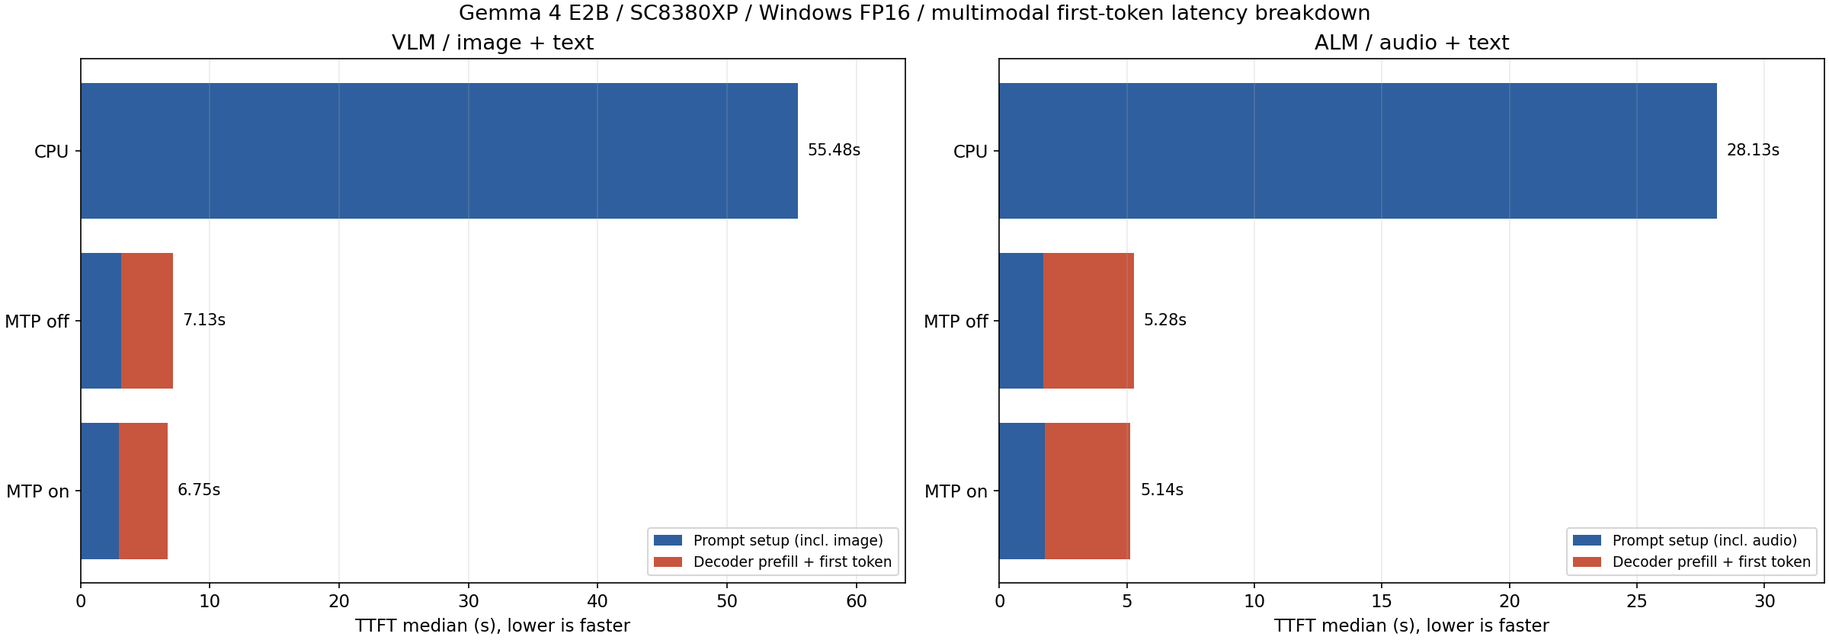
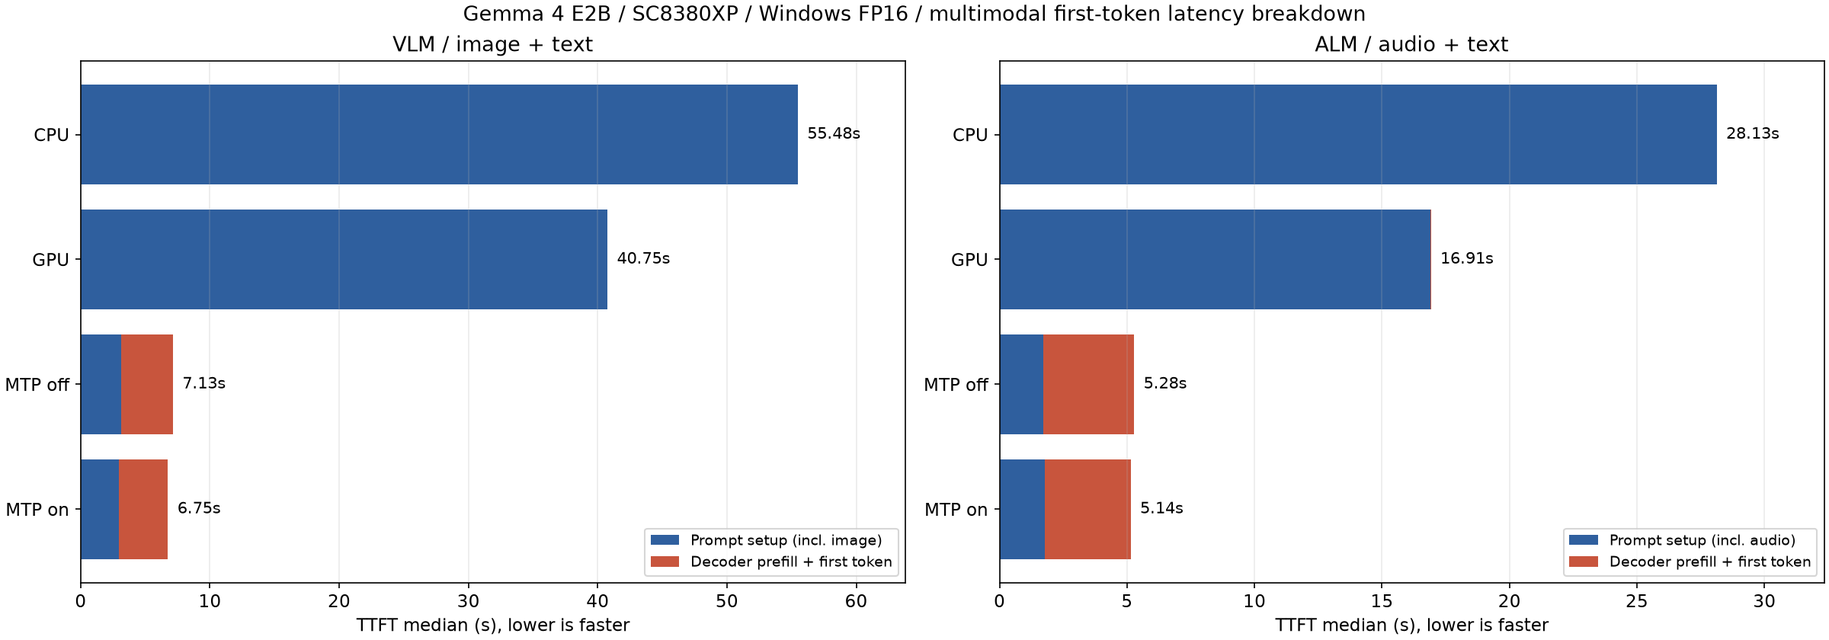
Add Windows OpenCL GPU results to MTP benchmark

diff --git a/en/llm/mtp-bench.html b/en/llm/mtp-bench.html
@@ -264,28 +264,28 @@ j=d.createElement(s),dl=l!='dataLayer'?'&l='+l:'';j.async=true;j.src=
       <li>Without MTP: the v1.5.1 MTP-capable main model without the assistant (AR-256 / AR-1)</li>
       <li>With MTP: the v1.5.1 MTP-capable main model + assistant (AR-256 / AR-4)</li>
     </ul>
-    <p>Each configuration was measured once, with a 60-second wait before each trial. The device was on AC power with the Balanced power plan, used 4 performance cores as workers, and had background apps running. CPU values are earlier measurements on the same device running the Q4_0 GGUF via the standard llama.cpp path (OpenMP disabled, 4 performance cores as workers, without MTP). The QCS6490 MTP models have only been confirmed by an offline build, and performance has not been evaluated on a real device.</p>
+    <p>Each configuration was measured once, with a 60-second wait before each trial. The device was on AC power with the Balanced power plan, used 4 performance cores as workers, and had background apps running. CPU values are earlier measurements on the same device running the Q4_0 GGUF via the standard llama.cpp path (OpenMP disabled, 4 performance cores as workers, without MTP). GPU values are from running the same Q4_0 GGUF on the Adreno X1-45 via the llama.cpp OpenCL backend (without MTP). They were measured on 2026-10-11 with a runtime that improves GPU performance, and are faster than the GPU values in the <a href="qnn-bench.html#windows">QNN Benchmark</a>. The QCS6490 MTP models have only been confirmed by an offline build, and performance has not been evaluated on a real device.</p>
 
     <h3>Decode throughput</h3>
     <p>Throughput for an 81-token input and 1,000 generated tokens.</p>
     <div class="table-wrap">
     <table class="version-table">
-      <tr><th>Model</th><th>CPU</th><th>Non-MTP (v1.5.0)</th><th>Without MTP</th><th>With MTP</th><th>MTP speedup (vs. non-MTP)</th><th>Acceptance</th></tr>
-      <tr><td>E2B / FP16</td><td class="num">32.505 tokens/s</td><td class="num">7.581 tokens/s</td><td class="num">7.681 tokens/s</td><td class="num">11.361 tokens/s</td><td class="num"><strong>1.50x faster</strong></td><td class="num">35.2%</td></tr>
-      <tr><td>E4B / FP16</td><td class="num">15.230 tokens/s</td><td class="num">4.477 tokens/s</td><td class="num">4.403 tokens/s</td><td class="num">7.614 tokens/s</td><td class="num"><strong>1.70x faster</strong></td><td class="num">39.4%</td></tr>
+      <tr><th>Model</th><th>CPU</th><th>GPU</th><th>Non-MTP (v1.5.0)</th><th>Without MTP</th><th>With MTP</th><th>MTP speedup (vs. non-MTP)</th><th>Acceptance</th></tr>
+      <tr><td>E2B / FP16</td><td class="num">32.505 tokens/s</td><td class="num">16.996 tokens/s</td><td class="num">7.581 tokens/s</td><td class="num">7.681 tokens/s</td><td class="num">11.361 tokens/s</td><td class="num"><strong>1.50x faster</strong></td><td class="num">35.2%</td></tr>
+      <tr><td>E4B / FP16</td><td class="num">15.230 tokens/s</td><td class="num">8.399 tokens/s</td><td class="num">4.477 tokens/s</td><td class="num">4.403 tokens/s</td><td class="num">7.614 tokens/s</td><td class="num"><strong>1.70x faster</strong></td><td class="num">39.4%</td></tr>
     </table>
     </div>
     <p>Without MTP, the speed is almost the same as the conventional model, so the speedup comes from the assistant and AR-4 verification. Unlike on Android, E4B also improved substantially, by 1.70x.</p>
     <div class="note">
-      <strong>Comparison with the CPU:</strong> Snapdragon X Plus has a high-performance CPU. Compared with the CPU decode in the <a href="qnn-bench.html#windows">QNN Benchmark</a> (E2B 32.505 tokens/s, E4B 15.230 tokens/s), the NPU with MTP is 0.35x for E2B and 0.50x for E4B. On Windows on Arm PCs, the main benefits of the NPU are faster prefill and reduced CPU load.
+      <strong>Comparison with the CPU and GPU:</strong> Snapdragon X Plus has a high-performance CPU. Even with MTP, NPU text generation decode is 0.35x (E2B) / 0.50x (E4B) the CPU and 0.67x (E2B) / 0.91x (E4B) the GPU. On Windows on Arm PCs, the main benefits of the NPU are faster prefill and reduced CPU load.
     </div>
 
     <figure class="bench-figure">
-      <img src="../../llm/benchmark/mtp_text_tps_sc8380xp.png" alt="Snapdragon X Plus E2B per-token text generation throughput over 1000 generated tokens (CPU / without MTP / with MTP)" loading="lazy">
+      <img src="../../llm/benchmark/mtp_text_tps_sc8380xp.png" alt="Snapdragon X Plus E2B per-token text generation throughput over 1000 generated tokens (CPU / GPU / without MTP / with MTP)" loading="lazy">
       <figcaption>Per-token decode throughput on SC8380XP (E2B / FP16) over 1000 generated tokens</figcaption>
     </figure>
     <figure class="bench-figure">
-      <img src="../../llm/benchmark/mtp_text_tps_e4b_sc8380xp.png" alt="Snapdragon X Plus E4B per-token text generation throughput over 1000 generated tokens (CPU / without MTP / with MTP)" loading="lazy">
+      <img src="../../llm/benchmark/mtp_text_tps_e4b_sc8380xp.png" alt="Snapdragon X Plus E4B per-token text generation throughput over 1000 generated tokens (CPU / GPU / without MTP / with MTP)" loading="lazy">
       <figcaption>Per-token decode throughput on SC8380XP (E4B / FP16) over 1000 generated tokens</figcaption>
     </figure>
 
@@ -295,65 +295,71 @@ j=d.createElement(s),dl=l!='dataLayer'?'&l='+l:'';j.async=true;j.src=
     <table class="version-table">
       <tr><th>Model / configuration</th><th>64</th><th>128</th><th>256</th><th>512</th><th>1024</th><th>2048</th></tr>
       <tr><td>E2B CPU</td><td class="num">249.314</td><td class="num">205.403</td><td class="num">214.986</td><td class="num">194.638</td><td class="num">176.262</td><td class="num">155.627</td></tr>
+      <tr><td>E2B GPU</td><td class="num">190.718</td><td class="num">208.584</td><td class="num">220.448</td><td class="num">205.558</td><td class="num">181.273</td><td class="num">151.935</td></tr>
       <tr><td>E2B non-MTP (v1.5.0)</td><td class="num">101.982</td><td class="num">225.254</td><td class="num">424.934</td><td class="num">420.052</td><td class="num">407.490</td><td class="num">420.639</td></tr>
       <tr><td>E2B without MTP</td><td class="num">113.151</td><td class="num">226.424</td><td class="num">448.660</td><td class="num">440.496</td><td class="num">426.759</td><td class="num">418.778</td></tr>
       <tr><td>E2B with MTP</td><td class="num">111.217</td><td class="num">223.184</td><td class="num">431.739</td><td class="num">419.928</td><td class="num">431.036</td><td class="num">430.899</td></tr>
       <tr><td>E4B CPU</td><td class="num">83.793</td><td class="num">98.738</td><td class="num">115.542</td><td class="num">106.402</td><td class="num">97.419</td><td class="num">80.109</td></tr>
+      <tr><td>E4B GPU</td><td class="num">100.750</td><td class="num">114.198</td><td class="num">122.105</td><td class="num">118.442</td><td class="num">108.468</td><td class="num">95.985</td></tr>
       <tr><td>E4B non-MTP (v1.5.0)</td><td class="num">62.413</td><td class="num">124.979</td><td class="num">245.360</td><td class="num">257.128</td><td class="num">253.727</td><td class="num">247.997</td></tr>
       <tr><td>E4B without MTP</td><td class="num">62.896</td><td class="num">114.516</td><td class="num">227.997</td><td class="num">253.767</td><td class="num">249.950</td><td class="num">243.701</td></tr>
       <tr><td>E4B with MTP</td><td class="num">63.008</td><td class="num">114.917</td><td class="num">229.531</td><td class="num">254.648</td><td class="num">248.715</td><td class="num">248.864</td></tr>
     </table>
     </div>
-    <p>Prefill is equivalent across all three configurations, so using the MTP-capable model does not reduce prefill performance. For a 2,048-token input, the NPU (with MTP) is about 2.77x faster than the CPU for E2B and about 3.11x for E4B.</p>
+    <p>Prefill is equivalent across all three configurations, so using the MTP-capable model does not reduce prefill performance. For a 2,048-token input, the NPU (with MTP) is about 2.77x faster than the CPU for E2B and about 3.11x for E4B, and about 2.84x faster than the GPU for E2B and about 2.59x for E4B.</p>
 
     <figure class="bench-figure">
-      <img src="../../llm/benchmark/mtp_pps_sc8380xp.png" alt="Snapdragon X Plus E2B prefill throughput (CPU / without MTP / with MTP)" loading="lazy">
+      <img src="../../llm/benchmark/mtp_pps_sc8380xp.png" alt="Snapdragon X Plus E2B prefill throughput (CPU / GPU / without MTP / with MTP)" loading="lazy">
       <figcaption>Prefill throughput on SC8380XP (E2B / FP16)</figcaption>
     </figure>
     <figure class="bench-figure">
-      <img src="../../llm/benchmark/mtp_pps_e4b_sc8380xp.png" alt="Snapdragon X Plus E4B prefill throughput (CPU / without MTP / with MTP)" loading="lazy">
+      <img src="../../llm/benchmark/mtp_pps_e4b_sc8380xp.png" alt="Snapdragon X Plus E4B prefill throughput (CPU / GPU / without MTP / with MTP)" loading="lazy">
       <figcaption>Prefill throughput on SC8380XP (E4B / FP16)</figcaption>
     </figure>
 
     <h3>VLM (image input) and audio input latency</h3>
-    <p>Image input uses one 768x768 image with 100 output tokens, and audio input transcribes one English recording with 33 output tokens; each is a single measurement. TTFT is the sum of prompt setup including the encoder and the first generate call, and does not include model opening. On the CPU path, the image and audio encoders also run on the CPU.</p>
+    <p>Image input uses one 768x768 image with 100 output tokens, and audio input transcribes one English recording with 33 output tokens; each is a single measurement. TTFT is the sum of prompt setup including the encoder and the first generate call, and does not include model opening. On the CPU and GPU paths, the image and audio encoders run on the CPU.</p>
     <div class="table-wrap">
     <table class="version-table">
       <tr><th>Device / model</th><th>Input</th><th>Path</th><th>TTFT</th><th>Decode</th><th>Acceptance</th></tr>
       <tr><td>SC8380XP E2B</td><td>Image</td><td>CPU</td><td class="num">55.48 s</td><td class="num">37.546 tokens/s</td><td class="num">—</td></tr>
+      <tr><td>SC8380XP E2B</td><td>Image</td><td>GPU</td><td class="num">40.75 s</td><td class="num">17.380 tokens/s</td><td class="num">—</td></tr>
       <tr><td>SC8380XP E2B</td><td>Image</td><td>Non-MTP (v1.5.0)</td><td class="num">7.31 s</td><td class="num">7.617 tokens/s</td><td class="num">—</td></tr>
       <tr><td>SC8380XP E2B</td><td>Image</td><td>Without MTP</td><td class="num">7.13 s</td><td class="num">7.608 tokens/s</td><td class="num">—</td></tr>
       <tr><td>SC8380XP E2B</td><td>Image</td><td>With MTP</td><td class="num">6.75 s</td><td class="num"><strong>10.689 tokens/s</strong></td><td class="num">32.0%</td></tr>
       <tr><td>SC8380XP E2B</td><td>Audio</td><td>CPU</td><td class="num">28.13 s</td><td class="num">37.924 tokens/s</td><td class="num">—</td></tr>
+      <tr><td>SC8380XP E2B</td><td>Audio</td><td>GPU</td><td class="num">16.92 s</td><td class="num">17.247 tokens/s</td><td class="num">—</td></tr>
       <tr><td>SC8380XP E2B</td><td>Audio</td><td>Non-MTP (v1.5.0)</td><td class="num">5.40 s</td><td class="num">7.219 tokens/s</td><td class="num">—</td></tr>
       <tr><td>SC8380XP E2B</td><td>Audio</td><td>Without MTP</td><td class="num">5.28 s</td><td class="num">7.513 tokens/s</td><td class="num">—</td></tr>
       <tr><td>SC8380XP E2B</td><td>Audio</td><td>With MTP</td><td class="num">5.14 s</td><td class="num"><strong>17.777 tokens/s</strong></td><td class="num">92.6%</td></tr>
       <tr><td>SC8380XP E4B</td><td>Image</td><td>CPU</td><td class="num">54.09 s</td><td class="num">20.161 tokens/s</td><td class="num">—</td></tr>
+      <tr><td>SC8380XP E4B</td><td>Image</td><td>GPU</td><td class="num">42.44 s</td><td class="num">9.323 tokens/s</td><td class="num">—</td></tr>
       <tr><td>SC8380XP E4B</td><td>Image</td><td>Non-MTP (v1.5.0)</td><td class="num">10.94 s</td><td class="num">4.426 tokens/s</td><td class="num">—</td></tr>
       <tr><td>SC8380XP E4B</td><td>Image</td><td>Without MTP</td><td class="num">10.81 s</td><td class="num">4.445 tokens/s</td><td class="num">—</td></tr>
       <tr><td>SC8380XP E4B</td><td>Image</td><td>With MTP</td><td class="num">9.30 s</td><td class="num"><strong>7.918 tokens/s</strong></td><td class="num">43.2%</td></tr>
       <tr><td>SC8380XP E4B</td><td>Audio</td><td>CPU</td><td class="num">27.67 s</td><td class="num">19.444 tokens/s</td><td class="num">—</td></tr>
+      <tr><td>SC8380XP E4B</td><td>Audio</td><td>GPU</td><td class="num">19.39 s</td><td class="num">9.366 tokens/s</td><td class="num">—</td></tr>
       <tr><td>SC8380XP E4B</td><td>Audio</td><td>Non-MTP (v1.5.0)</td><td class="num">8.13 s</td><td class="num">4.331 tokens/s</td><td class="num">—</td></tr>
       <tr><td>SC8380XP E4B</td><td>Audio</td><td>Without MTP</td><td class="num">7.68 s</td><td class="num">4.478 tokens/s</td><td class="num">—</td></tr>
       <tr><td>SC8380XP E4B</td><td>Audio</td><td>With MTP</td><td class="num">7.38 s</td><td class="num"><strong>12.288 tokens/s</strong></td><td class="num">92.6%</td></tr>
     </table>
     </div>
-    <p>Compared with non-MTP, image-input decode is 1.40x faster for E2B and 1.79x for E4B, and audio input is 2.46x for E2B and 2.84x for E4B. TTFT does not change much across the three configurations and is 1/3.7 to 1/8.2 of the CPU.</p>
+    <p>Compared with non-MTP, image-input decode is 1.40x faster for E2B and 1.79x for E4B, and audio input is 2.46x for E2B and 2.84x for E4B. TTFT does not change much across the three configurations and is 1/3.7 to 1/8.2 of the CPU and 1/2.6 to 1/6.0 of the GPU. For audio input decode, the NPU with MTP outperforms the GPU (1.03x for E2B, 1.31x for E4B).</p>
 
     <figure class="bench-figure">
-      <img src="../../llm/benchmark/mtp_media_ttft_sc8380xp.png" alt="Snapdragon X Plus E2B VLM / audio input TTFT breakdown (CPU / without MTP / with MTP)" loading="lazy">
+      <img src="../../llm/benchmark/mtp_media_ttft_sc8380xp.png" alt="Snapdragon X Plus E2B VLM / audio input TTFT breakdown (CPU / GPU / without MTP / with MTP)" loading="lazy">
       <figcaption>VLM / audio input TTFT breakdown on SC8380XP (E2B / FP16): prompt setup including the encoder, and decoder prefill + first token</figcaption>
     </figure>
     <figure class="bench-figure">
-      <img src="../../llm/benchmark/mtp_media_ttft_e4b_sc8380xp.png" alt="Snapdragon X Plus E4B VLM / audio input TTFT breakdown (CPU / without MTP / with MTP)" loading="lazy">
+      <img src="../../llm/benchmark/mtp_media_ttft_e4b_sc8380xp.png" alt="Snapdragon X Plus E4B VLM / audio input TTFT breakdown (CPU / GPU / without MTP / with MTP)" loading="lazy">
       <figcaption>VLM / audio input TTFT breakdown on SC8380XP (E4B / FP16): prompt setup including the encoder, and decoder prefill + first token</figcaption>
     </figure>
     <figure class="bench-figure">
-      <img src="../../llm/benchmark/mtp_media_tps_sc8380xp.png" alt="Snapdragon X Plus E2B VLM / audio input decode throughput (CPU / without MTP / with MTP)" loading="lazy">
+      <img src="../../llm/benchmark/mtp_media_tps_sc8380xp.png" alt="Snapdragon X Plus E2B VLM / audio input decode throughput (CPU / GPU / without MTP / with MTP)" loading="lazy">
       <figcaption>VLM / audio input decode throughput on SC8380XP (E2B / FP16)</figcaption>
     </figure>
     <figure class="bench-figure">
-      <img src="../../llm/benchmark/mtp_media_tps_e4b_sc8380xp.png" alt="Snapdragon X Plus E4B VLM / audio input decode throughput (CPU / without MTP / with MTP)" loading="lazy">
+      <img src="../../llm/benchmark/mtp_media_tps_e4b_sc8380xp.png" alt="Snapdragon X Plus E4B VLM / audio input decode throughput (CPU / GPU / without MTP / with MTP)" loading="lazy">
       <figcaption>VLM / audio input decode throughput on SC8380XP (E4B / FP16)</figcaption>
     </figure>
 

diff --git a/llm/mtp-bench.html b/llm/mtp-bench.html
@@ -264,20 +264,20 @@ j=d.createElement(s),dl=l!='dataLayer'?'&l='+l:'';j.async=true;j.src=
       <li>MTP なし：v1.5.1 の MTP 対応本体を Assistant なしで実行（AR-256 / AR-1）</li>
       <li>MTP あり：v1.5.1 の MTP 対応本体 + Assistant（AR-256 / AR-4）</li>
     </ul>
-    <p>各構成 1 回の測定で、各試行の前に 60 秒待機しています。AC 接続、バランス電源プラン、4 つの高性能コアをワーカーとして使用し、背景アプリが動作している状態での測定です。CPU は同じ端末上で Q4_0 GGUF を標準の llama.cpp 経路（OpenMP 無効、4 つの高性能コアをワーカーとして使用、MTP なし）で実行した過去の測定値です。QCS6490 向けの MTP モデルはオフラインでのビルド確認のみで、実機での性能評価は未実施です。</p>
+    <p>各構成 1 回の測定で、各試行の前に 60 秒待機しています。AC 接続、バランス電源プラン、4 つの高性能コアをワーカーとして使用し、背景アプリが動作している状態での測定です。CPU は同じ端末上で Q4_0 GGUF を標準の llama.cpp 経路（OpenMP 無効、4 つの高性能コアをワーカーとして使用、MTP なし）で実行した過去の測定値です。GPU は Adreno X1-45 で、同じ Q4_0 GGUF を llama.cpp の OpenCL バックエンド（MTP なし）で実行した値です。GPU 実行時の性能を改善したランタイムで 2026-10-11 に測定しており、<a href="qnn-bench.html#windows">QNN ベンチマーク</a>の GPU の値より高速です。QCS6490 向けの MTP モデルはオフラインでのビルド確認のみで、実機での性能評価は未実施です。</p>
 
     <h3>Decode スループット</h3>
     <p>81 トークン入力・1,000 トークン生成時のスループットです。</p>
     <div class="table-wrap">
     <table class="version-table">
-      <tr><th>モデル</th><th>CPU</th><th>非 MTP（v1.5.0）</th><th>MTP なし</th><th>MTP あり</th><th>MTP の効果（非 MTP 比）</th><th>受理率</th></tr>
-      <tr><td>E2B / FP16</td><td class="num">32.505 tokens/s</td><td class="num">7.581 tokens/s</td><td class="num">7.681 tokens/s</td><td class="num">11.361 tokens/s</td><td class="num"><strong>1.50 倍高速</strong></td><td class="num">35.2%</td></tr>
-      <tr><td>E4B / FP16</td><td class="num">15.230 tokens/s</td><td class="num">4.477 tokens/s</td><td class="num">4.403 tokens/s</td><td class="num">7.614 tokens/s</td><td class="num"><strong>1.70 倍高速</strong></td><td class="num">39.4%</td></tr>
+      <tr><th>モデル</th><th>CPU</th><th>GPU</th><th>非 MTP（v1.5.0）</th><th>MTP なし</th><th>MTP あり</th><th>MTP の効果（非 MTP 比）</th><th>受理率</th></tr>
+      <tr><td>E2B / FP16</td><td class="num">32.505 tokens/s</td><td class="num">16.996 tokens/s</td><td class="num">7.581 tokens/s</td><td class="num">7.681 tokens/s</td><td class="num">11.361 tokens/s</td><td class="num"><strong>1.50 倍高速</strong></td><td class="num">35.2%</td></tr>
+      <tr><td>E4B / FP16</td><td class="num">15.230 tokens/s</td><td class="num">8.399 tokens/s</td><td class="num">4.477 tokens/s</td><td class="num">4.403 tokens/s</td><td class="num">7.614 tokens/s</td><td class="num"><strong>1.70 倍高速</strong></td><td class="num">39.4%</td></tr>
     </table>
     </div>
     <p>MTP なしは従来モデルとほぼ同じ速度で、速度向上は Assistant と AR-4 による検証によるものです。Android と異なり、E4B でも 1.70 倍と大きく向上しました。</p>
     <div class="note">
-      <strong>CPU との比較:</strong> Snapdragon X Plus は CPU の性能が高く、<a href="qnn-bench.html#windows">QNN ベンチマーク</a>の CPU の Decode（E2B 32.505 tokens/s、E4B 15.230 tokens/s）に対し、MTP ありの NPU は E2B で 0.35 倍、E4B で 0.50 倍です。Windows on Arm の PC では、Prefill の高速化と CPU 負荷の削減が NPU の主な利点です。
+      <strong>CPU・GPU との比較:</strong> Snapdragon X Plus は CPU の性能が高く、テキスト生成の Decode は MTP ありの NPU でも CPU の 0.35 倍（E2B）/ 0.50 倍（E4B）、GPU の 0.67 倍（E2B）/ 0.91 倍（E4B）です。Windows on Arm の PC では、Prefill の高速化と CPU 負荷の削減が NPU の主な利点です。
     </div>
 
     <figure class="bench-figure">
@@ -295,65 +295,71 @@ j=d.createElement(s),dl=l!='dataLayer'?'&l='+l:'';j.async=true;j.src=
     <table class="version-table">
       <tr><th>モデル・構成</th><th>64</th><th>128</th><th>256</th><th>512</th><th>1024</th><th>2048</th></tr>
       <tr><td>E2B CPU</td><td class="num">249.314</td><td class="num">205.403</td><td class="num">214.986</td><td class="num">194.638</td><td class="num">176.262</td><td class="num">155.627</td></tr>
+      <tr><td>E2B GPU</td><td class="num">190.718</td><td class="num">208.584</td><td class="num">220.448</td><td class="num">205.558</td><td class="num">181.273</td><td class="num">151.935</td></tr>
       <tr><td>E2B 非 MTP（v1.5.0）</td><td class="num">101.982</td><td class="num">225.254</td><td class="num">424.934</td><td class="num">420.052</td><td class="num">407.490</td><td class="num">420.639</td></tr>
       <tr><td>E2B MTP なし</td><td class="num">113.151</td><td class="num">226.424</td><td class="num">448.660</td><td class="num">440.496</td><td class="num">426.759</td><td class="num">418.778</td></tr>
       <tr><td>E2B MTP あり</td><td class="num">111.217</td><td class="num">223.184</td><td class="num">431.739</td><td class="num">419.928</td><td class="num">431.036</td><td class="num">430.899</td></tr>
       <tr><td>E4B CPU</td><td class="num">83.793</td><td class="num">98.738</td><td class="num">115.542</td><td class="num">106.402</td><td class="num">97.419</td><td class="num">80.109</td></tr>
+      <tr><td>E4B GPU</td><td class="num">100.750</td><td class="num">114.198</td><td class="num">122.105</td><td class="num">118.442</td><td class="num">108.468</td><td class="num">95.985</td></tr>
       <tr><td>E4B 非 MTP（v1.5.0）</td><td class="num">62.413</td><td class="num">124.979</td><td class="num">245.360</td><td class="num">257.128</td><td class="num">253.727</td><td class="num">247.997</td></tr>
       <tr><td>E4B MTP なし</td><td class="num">62.896</td><td class="num">114.516</td><td class="num">227.997</td><td class="num">253.767</td><td class="num">249.950</td><td class="num">243.701</td></tr>
       <tr><td>E4B MTP あり</td><td class="num">63.008</td><td class="num">114.917</td><td class="num">229.531</td><td class="num">254.648</td><td class="num">248.715</td><td class="num">248.864</td></tr>
     </table>
     </div>
-    <p>Prefill は 3 構成とも同等で、MTP 対応モデルを使用しても Prefill 性能は低下しません。2,048 トークン入力では、NPU（MTP あり）は CPU より E2B で約 2.77 倍、E4B で約 3.11 倍高速です。</p>
+    <p>Prefill は 3 構成とも同等で、MTP 対応モデルを使用しても Prefill 性能は低下しません。2,048 トークン入力では、NPU（MTP あり）は CPU より E2B で約 2.77 倍、E4B で約 3.11 倍、GPU より E2B で約 2.84 倍、E4B で約 2.59 倍高速です。</p>
 
     <figure class="bench-figure">
-      <img src="benchmark/mtp_pps_sc8380xp.png" alt="Snapdragon X Plus E2B の Prefill スループット（CPU / MTP なし / MTP あり）" loading="lazy">
+      <img src="benchmark/mtp_pps_sc8380xp.png" alt="Snapdragon X Plus E2B の Prefill スループット（CPU / GPU / MTP なし / MTP あり）" loading="lazy">
       <figcaption>SC8380XP（E2B / FP16）の Prefill スループット</figcaption>
     </figure>
     <figure class="bench-figure">
-      <img src="benchmark/mtp_pps_e4b_sc8380xp.png" alt="Snapdragon X Plus E4B の Prefill スループット（CPU / MTP なし / MTP あり）" loading="lazy">
+      <img src="benchmark/mtp_pps_e4b_sc8380xp.png" alt="Snapdragon X Plus E4B の Prefill スループット（CPU / GPU / MTP なし / MTP あり）" loading="lazy">
       <figcaption>SC8380XP（E4B / FP16）の Prefill スループット</figcaption>
     </figure>
 
     <h3>VLM（画像入力）・音声入力の応答時間</h3>
-    <p>画像は 768x768 の 1 枚で 100 トークン出力、音声は英語音声 1 件の書き起こしで 33 トークン出力で、いずれも 1 回の測定値です。TTFT はエンコーダを含むプロンプト設定と最初の生成呼び出しの合計で、モデルのオープンは含みません。CPU の経路では、画像・音声エンコーダも CPU で実行しています。</p>
+    <p>画像は 768x768 の 1 枚で 100 トークン出力、音声は英語音声 1 件の書き起こしで 33 トークン出力で、いずれも 1 回の測定値です。TTFT はエンコーダを含むプロンプト設定と最初の生成呼び出しの合計で、モデルのオープンは含みません。CPU と GPU の経路では、画像・音声エンコーダは CPU で実行しています。</p>
     <div class="table-wrap">
     <table class="version-table">
       <tr><th>端末・モデル</th><th>入力</th><th>経路</th><th>TTFT</th><th>Decode</th><th>受理率</th></tr>
       <tr><td>SC8380XP E2B</td><td>画像</td><td>CPU</td><td class="num">55.48 秒</td><td class="num">37.546 tokens/s</td><td class="num">—</td></tr>
+      <tr><td>SC8380XP E2B</td><td>画像</td><td>GPU</td><td class="num">40.75 秒</td><td class="num">17.380 tokens/s</td><td class="num">—</td></tr>
       <tr><td>SC8380XP E2B</td><td>画像</td><td>非 MTP（v1.5.0）</td><td class="num">7.31 秒</td><td class="num">7.617 tokens/s</td><td class="num">—</td></tr>
       <tr><td>SC8380XP E2B</td><td>画像</td><td>MTP なし</td><td class="num">7.13 秒</td><td class="num">7.608 tokens/s</td><td class="num">—</td></tr>
       <tr><td>SC8380XP E2B</td><td>画像</td><td>MTP あり</td><td class="num">6.75 秒</td><td class="num"><strong>10.689 tokens/s</strong></td><td class="num">32.0%</td></tr>
       <tr><td>SC8380XP E2B</td><td>音声</td><td>CPU</td><td class="num">28.13 秒</td><td class="num">37.924 tokens/s</td><td class="num">—</td></tr>
+      <tr><td>SC8380XP E2B</td><td>音声</td><td>GPU</td><td class="num">16.92 秒</td><td class="num">17.247 tokens/s</td><td class="num">—</td></tr>
       <tr><td>SC8380XP E2B</td><td>音声</td><td>非 MTP（v1.5.0）</td><td class="num">5.40 秒</td><td class="num">7.219 tokens/s</td><td class="num">—</td></tr>
       <tr><td>SC8380XP E2B</td><td>音声</td><td>MTP なし</td><td class="num">5.28 秒</td><td class="num">7.513 tokens/s</td><td class="num">—</td></tr>
       <tr><td>SC8380XP E2B</td><td>音声</td><td>MTP あり</td><td class="num">5.14 秒</td><td class="num"><strong>17.777 tokens/s</strong></td><td class="num">92.6%</td></tr>
       <tr><td>SC8380XP E4B</td><td>画像</td><td>CPU</td><td class="num">54.09 秒</td><td class="num">20.161 tokens/s</td><td class="num">—</td></tr>
+      <tr><td>SC8380XP E4B</td><td>画像</td><td>GPU</td><td class="num">42.44 秒</td><td class="num">9.323 tokens/s</td><td class="num">—</td></tr>
       <tr><td>SC8380XP E4B</td><td>画像</td><td>非 MTP（v1.5.0）</td><td class="num">10.94 秒</td><td class="num">4.426 tokens/s</td><td class="num">—</td></tr>
       <tr><td>SC8380XP E4B</td><td>画像</td><td>MTP なし</td><td class="num">10.81 秒</td><td class="num">4.445 tokens/s</td><td class="num">—</td></tr>
       <tr><td>SC8380XP E4B</td><td>画像</td><td>MTP あり</td><td class="num">9.30 秒</td><td class="num"><strong>7.918 tokens/s</strong></td><td class="num">43.2%</td></tr>
       <tr><td>SC8380XP E4B</td><td>音声</td><td>CPU</td><td class="num">27.67 秒</td><td class="num">19.444 tokens/s</td><td class="num">—</td></tr>
+      <tr><td>SC8380XP E4B</td><td>音声</td><td>GPU</td><td class="num">19.39 秒</td><td class="num">9.366 tokens/s</td><td class="num">—</td></tr>
       <tr><td>SC8380XP E4B</td><td>音声</td><td>非 MTP（v1.5.0）</td><td class="num">8.13 秒</td><td class="num">4.331 tokens/s</td><td class="num">—</td></tr>
       <tr><td>SC8380XP E4B</td><td>音声</td><td>MTP なし</td><td class="num">7.68 秒</td><td class="num">4.478 tokens/s</td><td class="num">—</td></tr>
       <tr><td>SC8380XP E4B</td><td>音声</td><td>MTP あり</td><td class="num">7.38 秒</td><td class="num"><strong>12.288 tokens/s</strong></td><td class="num">92.6%</td></tr>
     </table>
     </div>
-    <p>非 MTP 比で、画像入力の Decode は E2B で 1.40 倍、E4B で 1.79 倍、音声入力は E2B で 2.46 倍、E4B で 2.84 倍高速です。TTFT は 3 構成で大きく変わらず、CPU の 3.7〜8.2 分の 1 です。</p>
+    <p>非 MTP 比で、画像入力の Decode は E2B で 1.40 倍、E4B で 1.79 倍、音声入力は E2B で 2.46 倍、E4B で 2.84 倍高速です。TTFT は 3 構成で大きく変わらず、CPU の 3.7〜8.2 分の 1、GPU の 2.6〜6.0 分の 1 です。音声入力の Decode は、MTP ありの NPU が GPU を上回ります（E2B で 1.03 倍、E4B で 1.31 倍）。</p>
 
     <figure class="bench-figure">
-      <img src="benchmark/mtp_media_ttft_sc8380xp.png" alt="Snapdragon X Plus E2B の VLM / 音声入力の TTFT 内訳（CPU / MTP なし / MTP あり）" loading="lazy">
+      <img src="benchmark/mtp_media_ttft_sc8380xp.png" alt="Snapdragon X Plus E2B の VLM / 音声入力の TTFT 内訳（CPU / GPU / MTP なし / MTP あり）" loading="lazy">
       <figcaption>SC8380XP（E2B / FP16）の VLM / 音声入力の TTFT 内訳（エンコーダを含むプロンプト設定と、デコーダの Prefill + 最初のトークン）</figcaption>
     </figure>
     <figure class="bench-figure">
-      <img src="benchmark/mtp_media_ttft_e4b_sc8380xp.png" alt="Snapdragon X Plus E4B の VLM / 音声入力の TTFT 内訳（CPU / MTP なし / MTP あり）" loading="lazy">
+      <img src="benchmark/mtp_media_ttft_e4b_sc8380xp.png" alt="Snapdragon X Plus E4B の VLM / 音声入力の TTFT 内訳（CPU / GPU / MTP なし / MTP あり）" loading="lazy">
       <figcaption>SC8380XP（E4B / FP16）の VLM / 音声入力の TTFT 内訳（エンコーダを含むプロンプト設定と、デコーダの Prefill + 最初のトークン）</figcaption>
     </figure>
     <figure class="bench-figure">
-      <img src="benchmark/mtp_media_tps_sc8380xp.png" alt="Snapdragon X Plus E2B の VLM / 音声入力の Decode スループット（CPU / MTP なし / MTP あり）" loading="lazy">
+      <img src="benchmark/mtp_media_tps_sc8380xp.png" alt="Snapdragon X Plus E2B の VLM / 音声入力の Decode スループット（CPU / GPU / MTP なし / MTP あり）" loading="lazy">
       <figcaption>SC8380XP（E2B / FP16）の VLM / 音声入力の Decode スループット</figcaption>
     </figure>
     <figure class="bench-figure">
-      <img src="benchmark/mtp_media_tps_e4b_sc8380xp.png" alt="Snapdragon X Plus E4B の VLM / 音声入力の Decode スループット（CPU / MTP なし / MTP あり）" loading="lazy">
+      <img src="benchmark/mtp_media_tps_e4b_sc8380xp.png" alt="Snapdragon X Plus E4B の VLM / 音声入力の Decode スループット（CPU / GPU / MTP なし / MTP あり）" loading="lazy">
       <figcaption>SC8380XP（E4B / FP16）の VLM / 音声入力の Decode スループット</figcaption>
     </figure>
 
